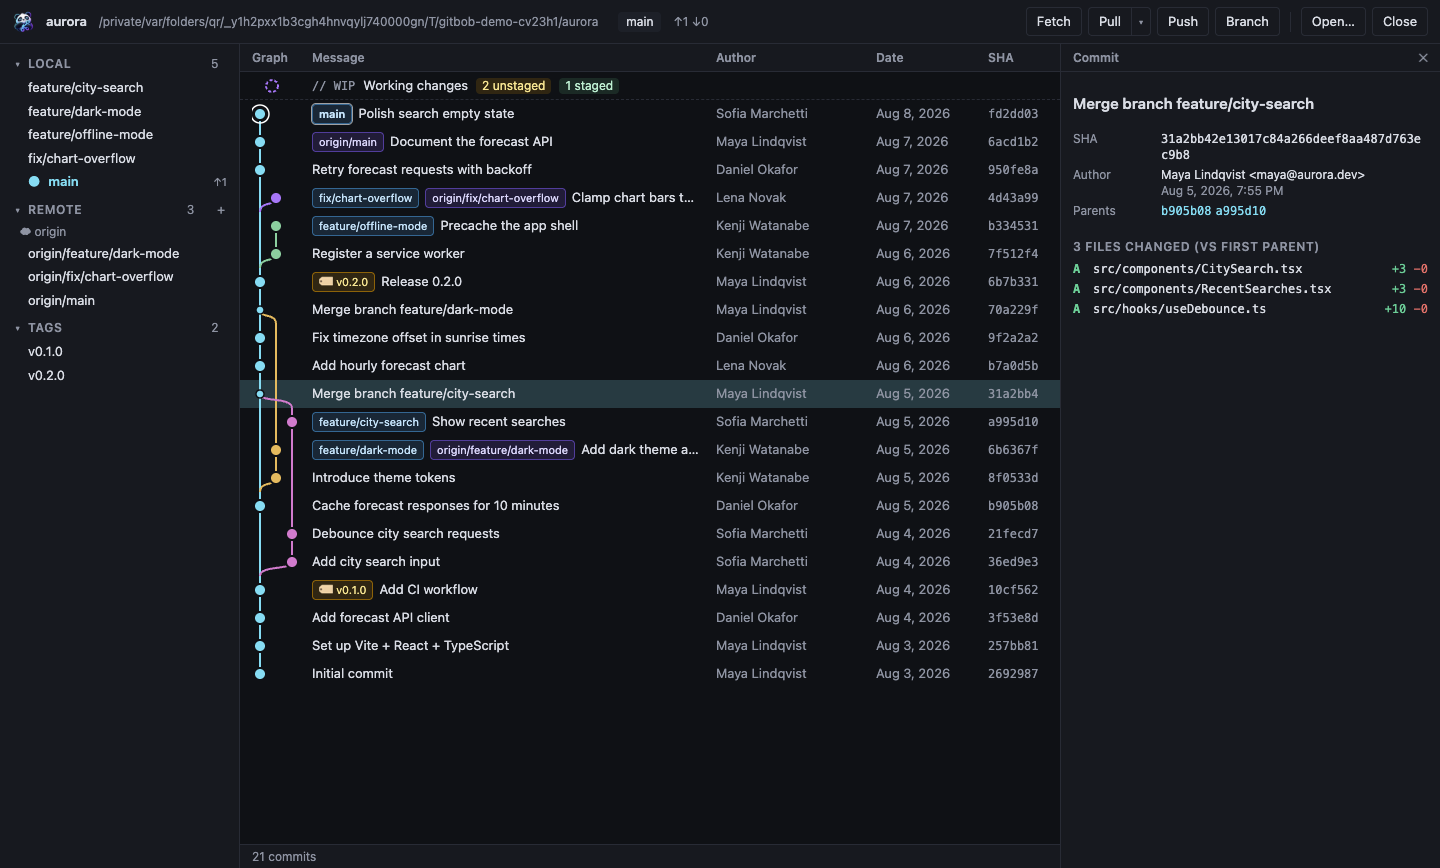
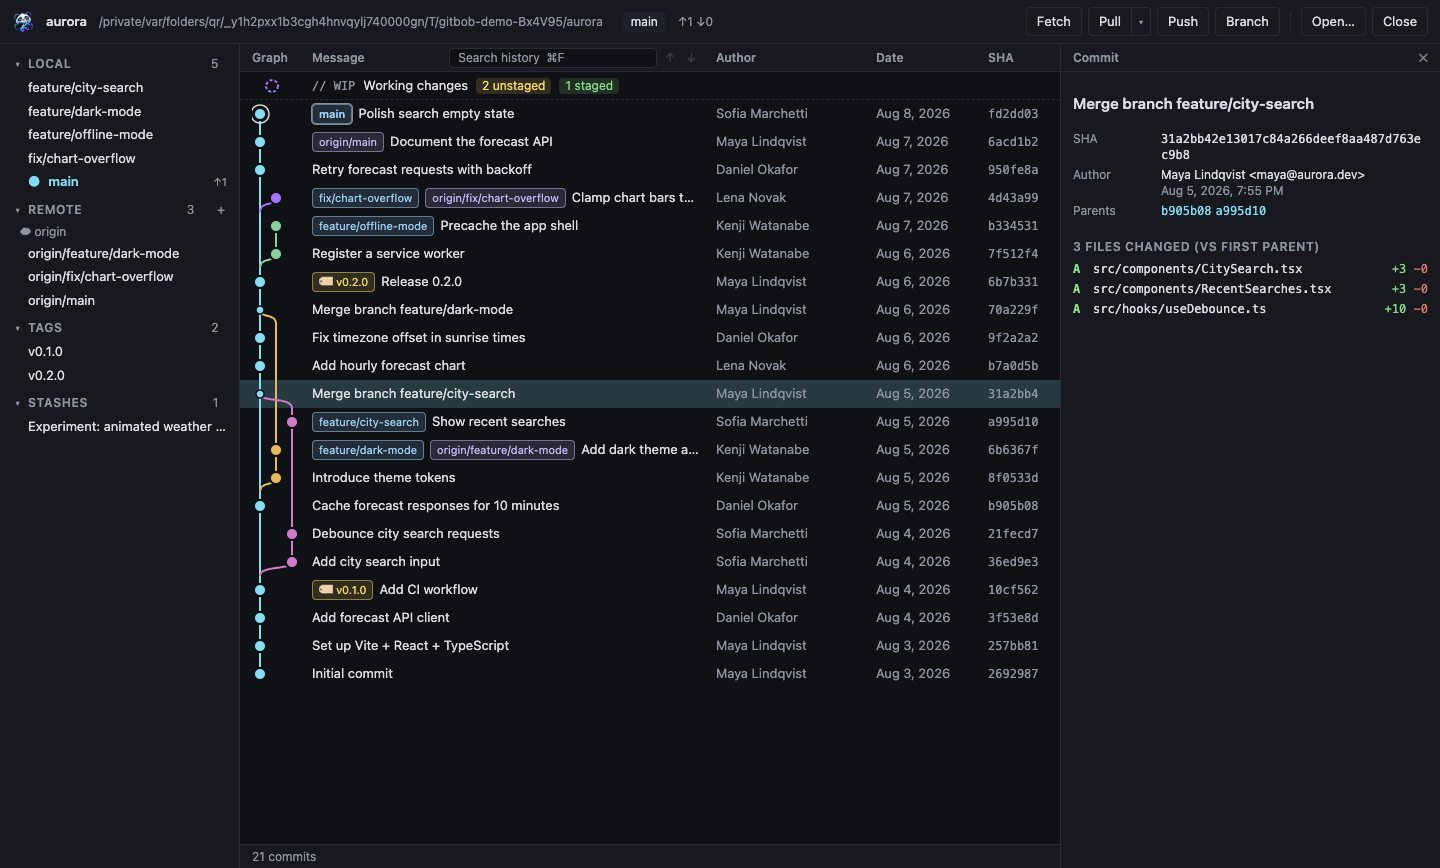
Fix theme switching, refresh screenshots, document M4/M5
- Electron does not update prefers-color-scheme when nativeTheme.themeSource
  changes, so View > Theme had no visible effect. The choice is now sent to
  the renderer and applied via data-theme (E2E test clicks the real menu).
- Graph search no longer misaligns the column header.
- New screenshots: history menu, search, stash, light theme. README tour
  covers undo/stash/tags; feature matrix and progress updated.

diff --git a/tests/e2e/app.spec.ts b/tests/e2e/app.spec.ts
@@ -201,3 +201,32 @@ test('searches the whole history and steps through matches', async () => {
     await app.close()
   }
 })
+
+test('View > Theme switches between dark and light and persists', async () => {
+  const userData = makeTempDir('gitbob-ud-')
+  const clickTheme = (app: ElectronApplication, label: string) =>
+    app.evaluate(({ Menu }, l) => {
+      const view = Menu.getApplicationMenu()!.items.find((i) => i.label === 'View')!
+      const theme = view.submenu!.items.find((i) => i.label === 'Theme')!
+      theme.submenu!.items.find((i) => i.label === l)!.click()
+    }, label)
+  const bg = (page: Page) => page.evaluate(() => getComputedStyle(document.body).backgroundColor)
+
+  let { app, page } = await launch({ userData })
+  try {
+    await expect(page.getByText('No recent repositories.')).toBeVisible()
+    await clickTheme(app, 'Dark')
+    await expect.poll(() => bg(page)).toBe('rgb(15, 17, 21)')
+    await clickTheme(app, 'Light')
+    await expect.poll(() => bg(page)).toBe('rgb(255, 255, 255)')
+  } finally {
+    await app.close()
+  }
+  // The choice survives a restart.
+  ;({ app, page } = await launch({ userData }))
+  try {
+    await expect.poll(() => bg(page)).toBe('rgb(255, 255, 255)')
+  } finally {
+    await app.close()
+  }
+})

diff --git a/src/main/index.ts b/src/main/index.ts
@@ -85,7 +85,12 @@ void app.whenReady().then(async () => {
   if (process.platform === 'darwin' && !app.isPackaged) app.dock?.setIcon(iconPath)
   session.defaultSession.setPermissionRequestHandler((_wc, _perm, cb) => cb(false))
 
+  const settings = new SettingsStore(app.getPath('userData'))
+  // nativeTheme.themeSource themes native dialogs/menus; the renderer gets the choice via IPC.
+  nativeTheme.themeSource = (await settings.load()).theme
+
   const ctx: IpcContext = {
+    getSettings: () => settings.get(),
     recent: new RecentRepositoryStore(app.getPath('userData')),
     isTrustedSender,
     network,
@@ -100,14 +105,12 @@ void app.whenReady().then(async () => {
   }
   registerIpc(ctx)
 
-  // nativeTheme.themeSource drives prefers-color-scheme in the renderer and native UI.
-  const settings = new SettingsStore(app.getPath('userData'))
-  nativeTheme.themeSource = (await settings.load()).theme
   const rebuildMenu = (): void =>
     buildMenu(() => mainWindow, {
       theme: settings.get().theme,
       onThemeChange: (theme) => {
         nativeTheme.themeSource = theme
+        for (const w of BrowserWindow.getAllWindows()) w.webContents.send('theme:changed', { theme })
         void settings.update({ theme }).then(rebuildMenu)
       },
     })

diff --git a/src/renderer/src/components/GraphSearch.tsx b/src/renderer/src/components/GraphSearch.tsx
@@ -60,7 +60,7 @@ export function GraphSearch({
   }
 
   return (
-    <div className="ml-auto flex items-center gap-1 pr-2 font-normal" data-testid="graph-search">
+    <div className="ml-auto flex min-w-0 items-center gap-1 pl-2 font-normal" data-testid="graph-search">
       <input
         ref={inputRef}
         value={input}
@@ -76,10 +76,10 @@ export function GraphSearch({
         }}
         placeholder="Search history  ⌘F"
         aria-label="Search history"
-        className="h-5 w-56 rounded border border-border bg-bg px-2 text-xs text-fg outline-none placeholder:text-muted focus:border-accent"
+        className="h-5 w-52 min-w-16 shrink rounded border border-border bg-bg px-2 text-xs text-fg outline-none placeholder:text-muted focus:border-accent"
       />
       {query && (
-        <span className="w-24 text-right text-[11px] text-muted" data-testid="search-count">
+        <span className="shrink-0 text-right text-[11px] whitespace-nowrap text-muted" data-testid="search-count">
           {search.isFetching && !search.data
             ? 'Searching…'
             : shas.length === 0

diff --git a/src/renderer/src/styles.css b/src/renderer/src/styles.css
@@ -32,8 +32,40 @@
   color-scheme: dark;
 }
 
+/* Light tokens: explicit choice (data-theme=light, set from View → Theme) or the OS
+   preference when the user picked "Match System" (no attribute / data-theme=system). */
+:root[data-theme='light'] {
+  --gb-bg: #ffffff;
+  --gb-panel: #f6f7f9;
+  --gb-panel-2: #eceef2;
+  --gb-border: #dcdfe5;
+  --gb-fg: #1d2330;
+  --gb-muted: #626b7c;
+  --gb-accent: #0aa5c0;
+  --gb-accent-2: #8b46e8;
+  --gb-danger: #d42f2f;
+  --gb-ok: #138a43;
+  --gb-warn: #a86a00;
+  --gb-err: #c92a2a;
+  --gb-info: #0b6fb8;
+  --gb-purple: #6d3fd1;
+  --gb-scroll: #c8ccd4;
+  --lane-0: #0aa5c0;
+  --lane-1: #8b46e8;
+  --lane-2: #1f9d5c;
+  --lane-3: #c98a00;
+  --lane-4: #c03aa8;
+  --lane-5: #e0473d;
+  --lane-6: #5b4fd6;
+  --lane-7: #138e9c;
+  --lane-8: #a46b2d;
+  --lane-9: #5f9a14;
+  --lane-10: #e0702a;
+  color-scheme: light;
+}
+
 @media (prefers-color-scheme: light) {
-  :root {
+  :root:not([data-theme='dark']) {
     --gb-bg: #ffffff;
     --gb-panel: #f6f7f9;
     --gb-panel-2: #eceef2;

diff --git a/src/main/ipc.ts b/src/main/ipc.ts
@@ -42,6 +42,7 @@ export interface IpcContext {
   /** Called whenever a repository is opened (e.g. to start watching it). */
   onRepositoryOpened?: (info: RepositoryInfo) => void
   network: NetworkSession
+  getSettings: () => { theme: 'system' | 'light' | 'dark' }
 }
 
 /**
@@ -237,6 +238,7 @@ export function registerIpc(ctx: IpcContext): void {
     },
     'op:skip': ({ repoPath }) => skipOperation(requireOpened(repoPath)),
     'reflog:get': ({ repoPath, limit }) => getReflog(requireOpened(repoPath), 'HEAD', limit),
+    'settings:get': async () => ctx.getSettings(),
     'credentials:respond': async ({ id, answer }) => ctx.network.respond(id, answer),
     'op:cancel': async () => ctx.network.cancel(),
   }

diff --git a/src/shared/ipc-types.ts b/src/shared/ipc-types.ts
@@ -70,6 +70,7 @@ export interface IpcOutputs {
   'op:abort': { operation: string | null }
   'op:skip': { operation: string }
   'reflog:get': ReflogEntry[]
+  'settings:get': { theme: 'system' | 'light' | 'dark' }
   'credentials:respond': void
   /** True if a running network operation was cancelled. */
   'op:cancel': boolean
@@ -97,6 +98,8 @@ export interface IpcEvents {
   'credentials:cancel': { id: string }
   /** Progress of the running network operation. */
   'op:progress': { phase: string; percent: number }
+  /** The user picked a theme in View → Theme. */
+  'theme:changed': { theme: 'system' | 'light' | 'dark' }
 }
 
 type _EventsExhaustive = [IpcEventName] extends [keyof IpcEvents]

diff --git a/src/renderer/src/App.tsx b/src/renderer/src/App.tsx
@@ -48,6 +48,15 @@ export function App() {
     [handleOpened, showError],
   )
 
+  // Theme: "system" follows prefers-color-scheme in CSS; light/dark are forced via data-theme.
+  useEffect(() => {
+    const apply = (theme: string): void => {
+      document.documentElement.dataset.theme = theme
+    }
+    void call('settings:get', {}).then((s) => apply(s.theme))
+    return subscribe('theme:changed', ({ theme }) => apply(theme))
+  }, [])
+
   useEffect(() => subscribe('repo:opened', handleOpened), [handleOpened])
   useEffect(() => subscribe('menu:open-repository', () => void pickRepository()), [pickRepository])
 

diff --git a/src/shared/ipc.ts b/src/shared/ipc.ts
@@ -128,6 +128,7 @@ export const ipcInputSchemas = {
   'op:abort': z.object({ repoPath: absolutePath }),
   'op:skip': z.object({ repoPath: absolutePath }),
   'reflog:get': z.object({ repoPath: absolutePath, limit: z.number().int().min(1).max(10_000).default(200) }),
+  'settings:get': z.object({}).strict(),
   'credentials:respond': z.object({
     id: z.string().regex(/^[0-9a-f]{32}$/),
     answer: z.string().max(4096).nullable(),

diff --git a/src/renderer/src/components/CommitGraph.tsx b/src/renderer/src/components/CommitGraph.tsx
@@ -99,7 +99,7 @@ export function CommitGraph({
         <div style={{ width: graphColumnWidth }} className="shrink-0 pl-3">
           Graph
         </div>
-        <div className="flex flex-1 items-center px-2">
+        <div className="flex min-w-0 flex-1 items-center px-2">
           Message
           <GraphSearch repoPath={repoPath} onMatchesChange={setMatches} />
         </div>

diff --git a/src/shared/channels.ts b/src/shared/channels.ts
@@ -46,6 +46,7 @@ export const IPC_CHANNELS = [
   'op:abort',
   'op:skip',
   'reflog:get',
+  'settings:get',
   'credentials:respond',
   'op:cancel',
 ] as const
@@ -58,5 +59,6 @@ export const IPC_EVENTS = [
   'credentials:request',
   'credentials:cancel',
   'op:progress',
+  'theme:changed',
 ] as const
 export type IpcEventName = (typeof IPC_EVENTS)[number]

diff --git a/README.md b/README.md
@@ -150,6 +150,27 @@ GitBob never overwrites your uncommitted changes when switching. If Git would ha
 
 If the server needs a username and password (or token), GitBob asks for it in a dialog. Long operations show their progress and can be cancelled. SSH keys and Git credential helpers you already use keep working.
 
+### 6. Undo, park and reuse work
+
+Right-click any commit for the time-travel tools:
+
+<p align="center">
+  <img src="docs/images/gitbob-history-menu.png" alt="The commit context menu with Create branch, Create tag, Cherry-pick, Revert, three Reset options and Checkout" width="100%">
+</p>
+
+- **Cherry-pick** copies that commit onto your current branch.
+- **Revert** adds a new commit that undoes it (safe for shared branches).
+- **Reset** moves your branch back to that commit. *Soft* keeps the changes staged, *mixed* keeps them as unstaged edits, *hard* throws them away. Before a hard reset GitBob asks you, and saves your uncommitted work as a backup stash so it can come back.
+- **Create tag** marks a release, with an optional message. Push or delete tags from the sidebar.
+
+Need to switch tasks with half-finished work? Click **Stash…** in Working changes. Your edits are put aside and the working tree is clean. They wait under **Stashes** in the sidebar, where **Pop** brings them back.
+
+<p align="center">
+  <img src="docs/images/gitbob-stash.png" alt="A stash selected in the sidebar, with its files and Pop, Apply and Delete buttons" width="100%">
+</p>
+
+If a cherry-pick, revert, merge or rebase stops because of a conflict, a yellow banner tells you how many files need attention and offers **Continue**, **Skip** and **Abort**. Nothing is left half-done without you knowing.
+
 <br>
 
 ## Features
@@ -185,6 +206,18 @@ Every screenshot in this README is the real app working on a real Git repository
       Create, switch, rename and delete branches, track remote branches, and see ahead/behind counts. Add and remove remotes. Fetch (with pruning), pull (fast-forward, merge or rebase) and push with clear explanations when the server rejects something, for example "Pull first" instead of a wall of Git output.
     </td>
   </tr>
+  <tr>
+    <td width="50%" valign="top">
+      <img src="docs/images/gitbob-search.png" alt="Searching the history for forecast: matching commits are highlighted and the rest are dimmed" width="100%">
+      <h3>Find anything</h3>
+      <kbd>⌘F</kbd> searches the whole history (not just what's on screen) by message, author, committer or commit id. Matches light up, everything else fades, and <kbd>Enter</kbd> jumps to the next one, loading older history when needed.
+    </td>
+    <td width="50%" valign="top">
+      <img src="docs/images/gitbob-light.png" alt="GitBob in the light theme" width="100%">
+      <h3>Light or dark</h3>
+      Pick Light, Dark or Match System under View → Theme. Graph colors, diffs and labels are tuned for both.
+    </td>
+  </tr>
 </table>
 
 <br>
@@ -208,6 +241,15 @@ Every screenshot in this README is the real app working on a real Git repository
   </tr>
   <tr>
     <td width="33%" valign="top">
+      <h4>⏪ Undo &amp; reuse</h4>
+      Cherry-pick · revert (merge commits too) · reset soft/mixed/hard with automatic backup · continue/skip/abort for stopped merges, rebases, cherry-picks and reverts
+    </td>
+    <td width="33%" valign="top">
+      <h4>📦 Stash &amp; tags</h4>
+      Stash with message (untracked files included) · pop · apply · delete · see stashed files · annotated and lightweight tags · push and delete tags
+    </td>
+  <tr>
+    <td width="33%" valign="top">
       <h4>🎨 Comfortable</h4>
       Light, dark or match-system theme (View → Theme) · native menus · keyboard navigation · remembers recent repositories
     </td>
@@ -216,7 +258,7 @@ Every screenshot in this README is the real app working on a real Git repository
 
 ### On the roadmap
 
-Stash, tags management, reset, revert and cherry-pick from the UI, interactive rebase, a side-by-side diff with syntax highlighting, line-by-line staging, a three-way merge conflict editor, GitHub/GitLab/Bitbucket/Azure DevOps integration, and signed installers for macOS, Windows and Linux. Progress is tracked in [`docs/FEATURE_MATRIX.md`](docs/FEATURE_MATRIX.md).
+Interactive rebase, a side-by-side diff with syntax highlighting, line-by-line staging, a three-way merge conflict editor, GitHub/GitLab/Bitbucket/Azure DevOps integration, and signed installers for macOS, Windows and Linux. Progress is tracked in [`docs/FEATURE_MATRIX.md`](docs/FEATURE_MATRIX.md).
 
 <br>
 
@@ -261,7 +303,8 @@ npm run screenshots  # regenerate the README screenshots
 npm run dist:mac     # package for macOS (dmg + zip)
 ```
 
-- **Tested against real Git:** about 240 integration tests create throwaway repositories (including local "servers" and an authenticated HTTP Git server) and check the results with Git itself; Playwright end-to-end tests click through the actual app.
+- **Fast on big repositories:** measured on a generated 100,000-commit repository: the full history loads in about 3 seconds and the graph layout takes about 40 ms ([`docs/BENCHMARKS.md`](docs/BENCHMARKS.md)).
+- **Tested against real Git:** more than 300 integration tests create throwaway repositories (including local "servers" and an authenticated HTTP Git server) and check the results with Git itself; Playwright end-to-end tests click through the actual app.
 - **Secure by default:** sandboxed renderer without Node access, context isolation, strict Content Security Policy, schema-validated IPC, and Git can only be run on repositories you opened.
 - **Architecture and decisions:** [`docs/ARCHITECTURE.md`](docs/ARCHITECTURE.md). Current status and test results: [`docs/PROGRESS.md`](docs/PROGRESS.md).
 
